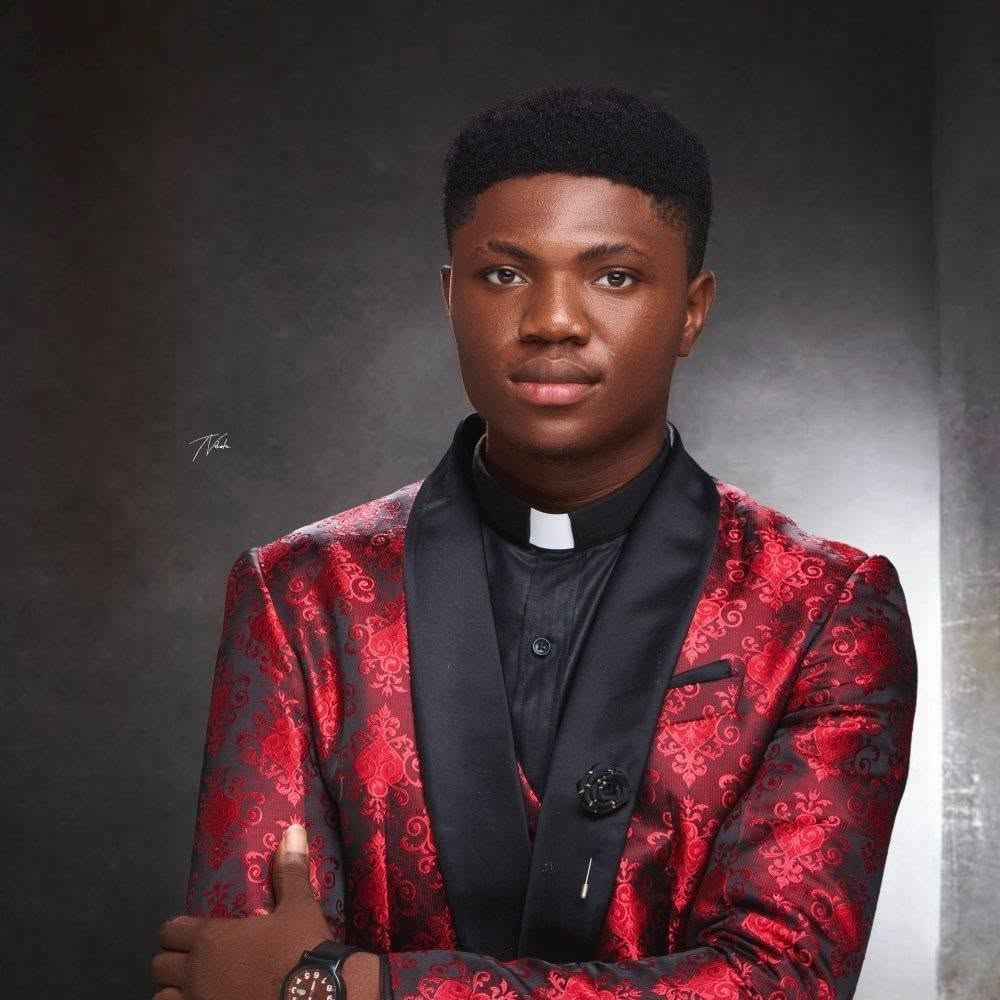
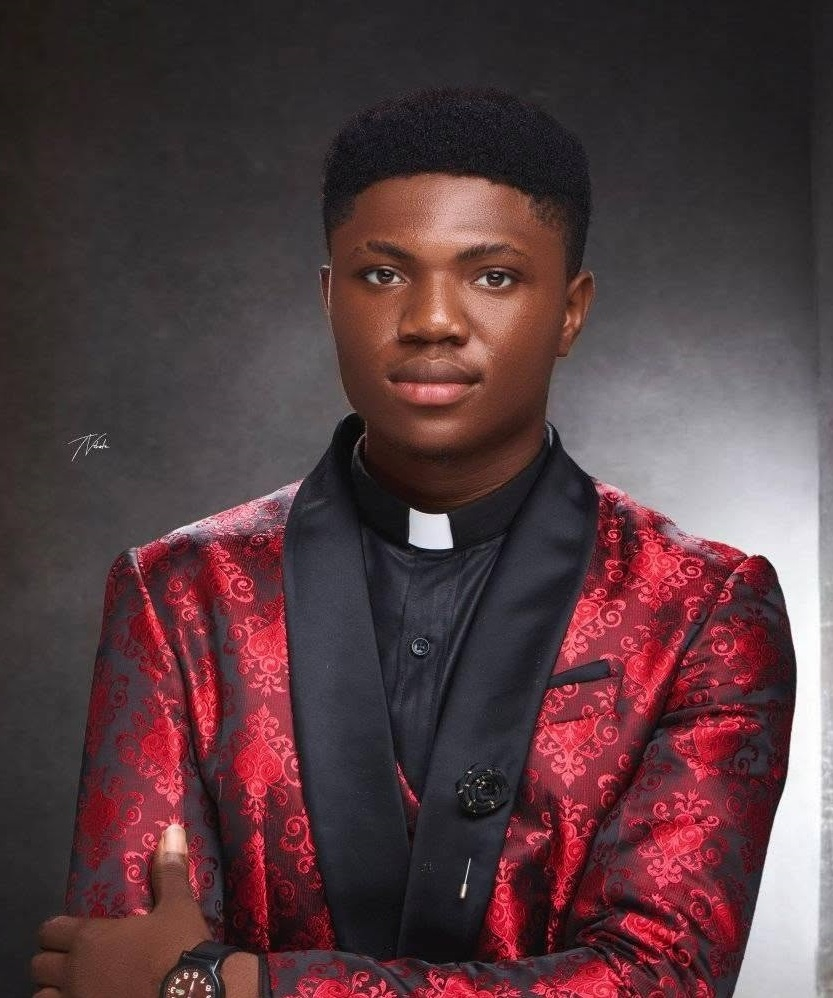
update

diff --git a/src/app/page.tsx b/src/app/page.tsx
@@ -72,21 +72,27 @@ export default async function HomePage() {
 
   return (
     <>
-      {/* Hero: a cover plate, then the type */}
-      <section className="relative overflow-hidden bg-ink text-parchment">
-        <div className="relative aspect-[16/10] w-full border-b border-parchment/10 sm:aspect-[16/7] lg:aspect-[21/6]">
-          <Image
-            src="/images/desert-walk.webp"
-            alt=""
-            aria-hidden="true"
-            fill
-            priority
-            sizes="100vw"
-            className="object-cover object-[55%_42%]"
-          />
-        </div>
+      {/* Hero: the watchman's hill, held behind the type */}
+      <section className="relative isolate overflow-hidden bg-ink text-parchment">
+        <Image
+          src="/images/desert-walk.webp"
+          alt=""
+          aria-hidden="true"
+          fill
+          priority
+          sizes="100vw"
+          className="object-cover object-[72%_32%]"
+        />
+        <div
+          aria-hidden="true"
+          className="absolute inset-0 bg-gradient-to-r from-ink via-ink/88 to-ink/10"
+        />
+        <div
+          aria-hidden="true"
+          className="absolute inset-0 bg-gradient-to-t from-ink via-ink/20 to-ink/45"
+        />
 
-        <div className="wrap relative grid gap-14 pb-14 pt-12 md:pb-20 md:pt-16 lg:grid-cols-12 lg:gap-12">
+        <div className="wrap relative grid gap-12 pb-14 pt-16 md:pb-20 md:pt-24 lg:grid-cols-12 lg:items-center lg:gap-10">
           <div className="lg:col-span-7">
             <p className="label text-gold-soft/85">
               Interdenominational · Founded {site.founded}
@@ -122,7 +128,7 @@ export default async function HomePage() {
             </div>
           </div>
 
-          <div className="lg:col-span-5 lg:pl-8">
+          <div className="lg:col-span-4 lg:col-start-9">
             <NextGathering sessions={schedule} joinHref={contact.whatsapp || undefined} />
             <p className="mt-4 text-xs leading-relaxed text-parchment/60">
               Every session is online. Times are kept in WAT and shown in your own

diff --git a/src/app/teachings/[slug]/page.tsx b/src/app/teachings/[slug]/page.tsx
@@ -3,6 +3,7 @@ import Link from "next/link";
 import { notFound, redirect } from "next/navigation";
 import { ExternalLink, Headphones } from "lucide-react";
 import { TeachingVideo } from "@/components/TeachingVideo";
+import { Cover } from "@/components/Cover";
 import { getSeries, getTeaching, getTeachings } from "@/lib/data";
 import { getServiceClient, supabaseConfigured } from "@/lib/supabase/server";
 import { sanitizeServerHtml } from "@/lib/sanitize-html";
@@ -113,6 +114,17 @@ export default async function TeachingPage({ params }: Params) {
             <p className="mt-2 font-display text-2xl leading-snug">{teaching.scripture}</p>
           </div>
         </div>
+
+        {teaching.image && (
+          <div className="relative aspect-[16/9] w-full overflow-hidden bg-ink md:aspect-[24/9]">
+            <Cover
+              src={teaching.image}
+              alt={teaching.imageAlt}
+              sizes="100vw"
+              priority
+            />
+          </div>
+        )}
       </header>
 
       <div className="wrap grid gap-12 py-12 md:grid-cols-12 md:py-16">
